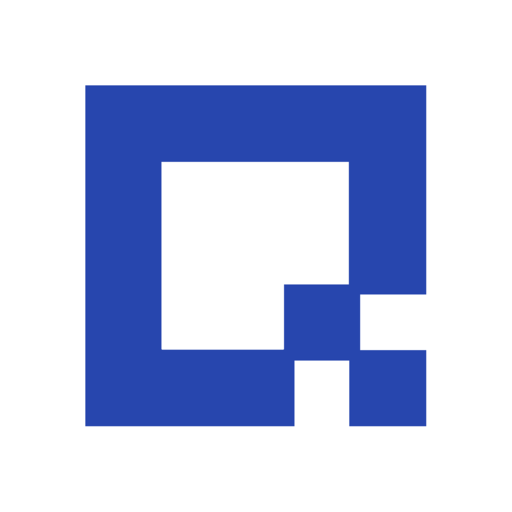
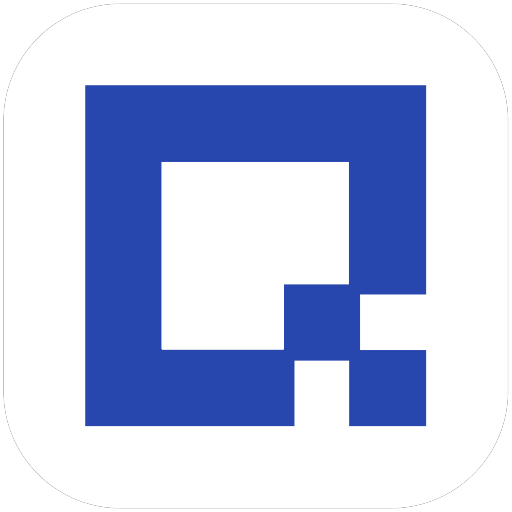
up

Changed region(s): [[0.6562, 0.3125, 0.6875, 0.3438]]

diff --git a/_layouts/co2.html b/_layouts/co2.html
@@ -13,12 +13,16 @@
     <link href="/assets/css/public.css?v=0.0.1" rel="stylesheet" />
     <link href="/assets/css/desktop.css?v=0.0.9" rel="stylesheet" media="screen and (min-width:1000px)" />
     <link href="/assets/css/mobile.css?v=0.1.1" rel="stylesheet" media="screen and (max-width:1000px)" />
-    <link rel="apple-touch-icon" sizes="180x180" href="/apple-touch-icon.png">
-    <link rel="icon" type="image/png" sizes="32x32" href="/favicon-32x32.png">
-    <link rel="icon" type="image/png" sizes="16x16" href="/favicon-16x16.png">
-    <link rel="manifest" href="/site.webmanifest">
-    <meta name="msapplication-TileColor" content="#da532c">
+
+    <link rel="apple-touch-icon" sizes="180x180" href="/apple-touch-icon.png?v=012">
+    <link rel="icon" type="image/png" sizes="32x32" href="/favicon-32x32.png?v=012">
+    <link rel="icon" type="image/png" sizes="16x16" href="/favicon-16x16.png?v=012">
+    <link rel="manifest" href="/site.webmanifest?v=012">
+    <link rel="mask-icon" href="/safari-pinned-tab.svg?v=012" color="#2746ae">
+    <link rel="shortcut icon" href="/favicon.ico?v=012">
+    <meta name="msapplication-TileColor" content="#2746ae">
     <meta name="theme-color" content="#ffffff">
+    
     <meta name="robots" content="noindex,nofollow,noarchive">
     <script defer data-domain="labelrado.com" src="https://plausible.io/js/plausible.js"></script>
     <title>Labelrado - QR Marketing</title>

diff --git a/_layouts/index.html b/_layouts/index.html
@@ -13,12 +13,16 @@
     <link href="/assets/css/public.css?v=0.0.2" rel="stylesheet" />
     <link href="/assets/css/desktop.css?v=0.0.9" rel="stylesheet" media="screen and (min-width:1000px)" />
     <link href="/assets/css/mobile.css?v=0.0.9" rel="stylesheet" media="screen and (max-width:1000px)" />
-    <link rel="apple-touch-icon" sizes="180x180" href="/apple-touch-icon.png">
-    <link rel="icon" type="image/png" sizes="32x32" href="/favicon-32x32.png">
-    <link rel="icon" type="image/png" sizes="16x16" href="/favicon-16x16.png">
-    <link rel="manifest" href="/site.webmanifest">
-    <meta name="msapplication-TileColor" content="#da532c">
+    
+    <link rel="apple-touch-icon" sizes="180x180" href="/apple-touch-icon.png?v=012">
+    <link rel="icon" type="image/png" sizes="32x32" href="/favicon-32x32.png?v=012">
+    <link rel="icon" type="image/png" sizes="16x16" href="/favicon-16x16.png?v=012">
+    <link rel="manifest" href="/site.webmanifest?v=012">
+    <link rel="mask-icon" href="/safari-pinned-tab.svg?v=012" color="#2746ae">
+    <link rel="shortcut icon" href="/favicon.ico?v=012">
+    <meta name="msapplication-TileColor" content="#2746ae">
     <meta name="theme-color" content="#ffffff">
+
     <meta name="robots" content="noindex,nofollow,noarchive">
     <script defer data-domain="labelrado.com" src="https://plausible.io/js/plausible.js"></script>
     <title>Labelrado - QR Marketing</title>

diff --git a/_layouts/co.html b/_layouts/co.html
@@ -14,12 +14,13 @@
     <link href="/assets/css/desktop.css?v=0.0.9" rel="stylesheet" media="screen and (min-width:1000px)" />
     <link href="/assets/css/mobile.css?v=0.1.1" rel="stylesheet" media="screen and (max-width:1000px)" />
 
-
-    <link rel="apple-touch-icon" sizes="180x180" href="/apple-touch-icon.png">
-    <link rel="icon" type="image/png" sizes="32x32" href="/favicon-32x32.png">
-    <link rel="icon" type="image/png" sizes="16x16" href="/favicon-16x16.png">
-    <link rel="manifest" href="/site.webmanifest">
-    <meta name="msapplication-TileColor" content="#da532c">
+    <link rel="apple-touch-icon" sizes="180x180" href="/apple-touch-icon.png?v=012">
+    <link rel="icon" type="image/png" sizes="32x32" href="/favicon-32x32.png?v=012">
+    <link rel="icon" type="image/png" sizes="16x16" href="/favicon-16x16.png?v=012">
+    <link rel="manifest" href="/site.webmanifest?v=012">
+    <link rel="mask-icon" href="/safari-pinned-tab.svg?v=012" color="#2746ae">
+    <link rel="shortcut icon" href="/favicon.ico?v=012">
+    <meta name="msapplication-TileColor" content="#2746ae">
     <meta name="theme-color" content="#ffffff">
 
     <meta name="robots" content="noindex,nofollow,noarchive">
